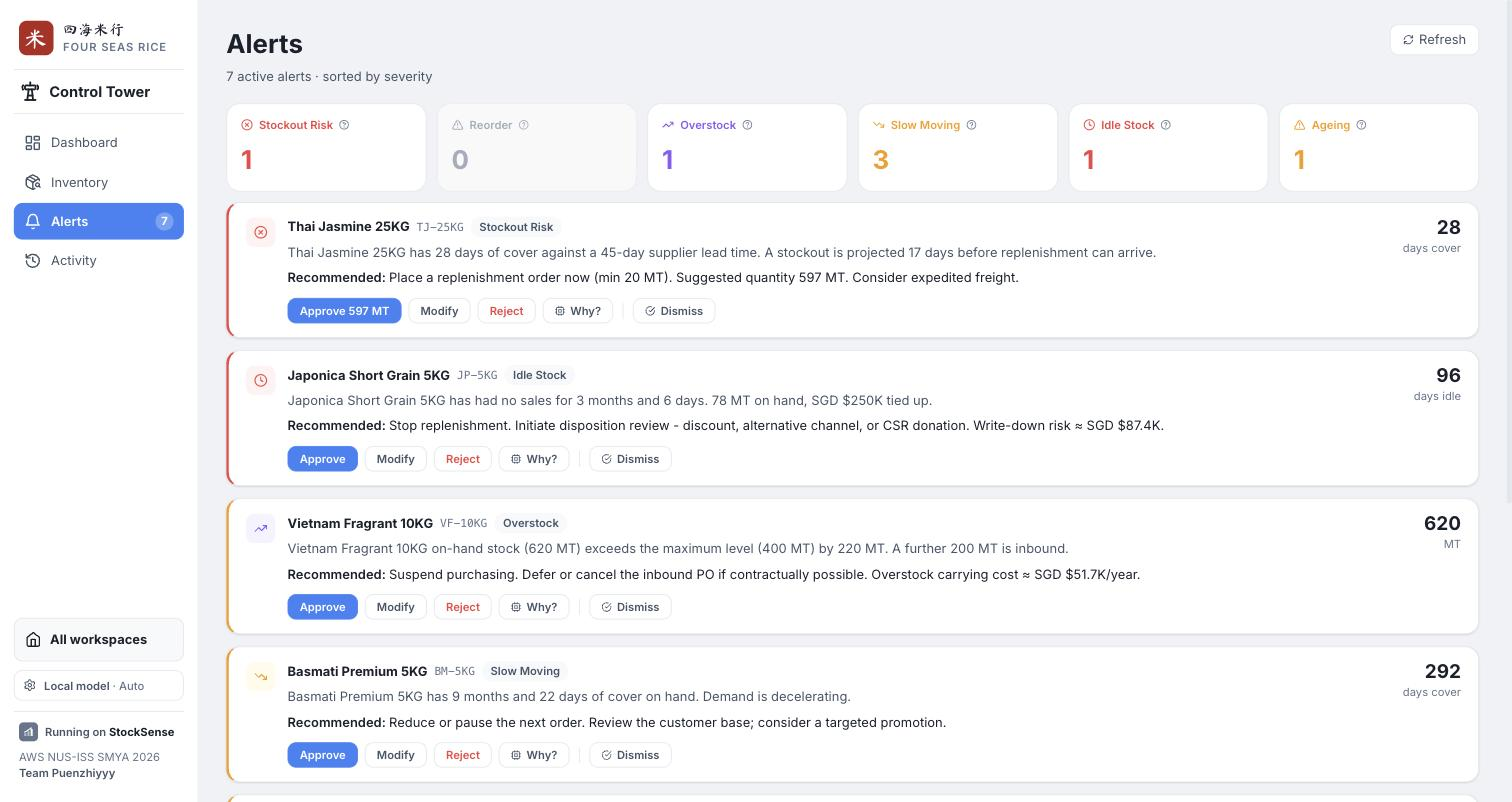
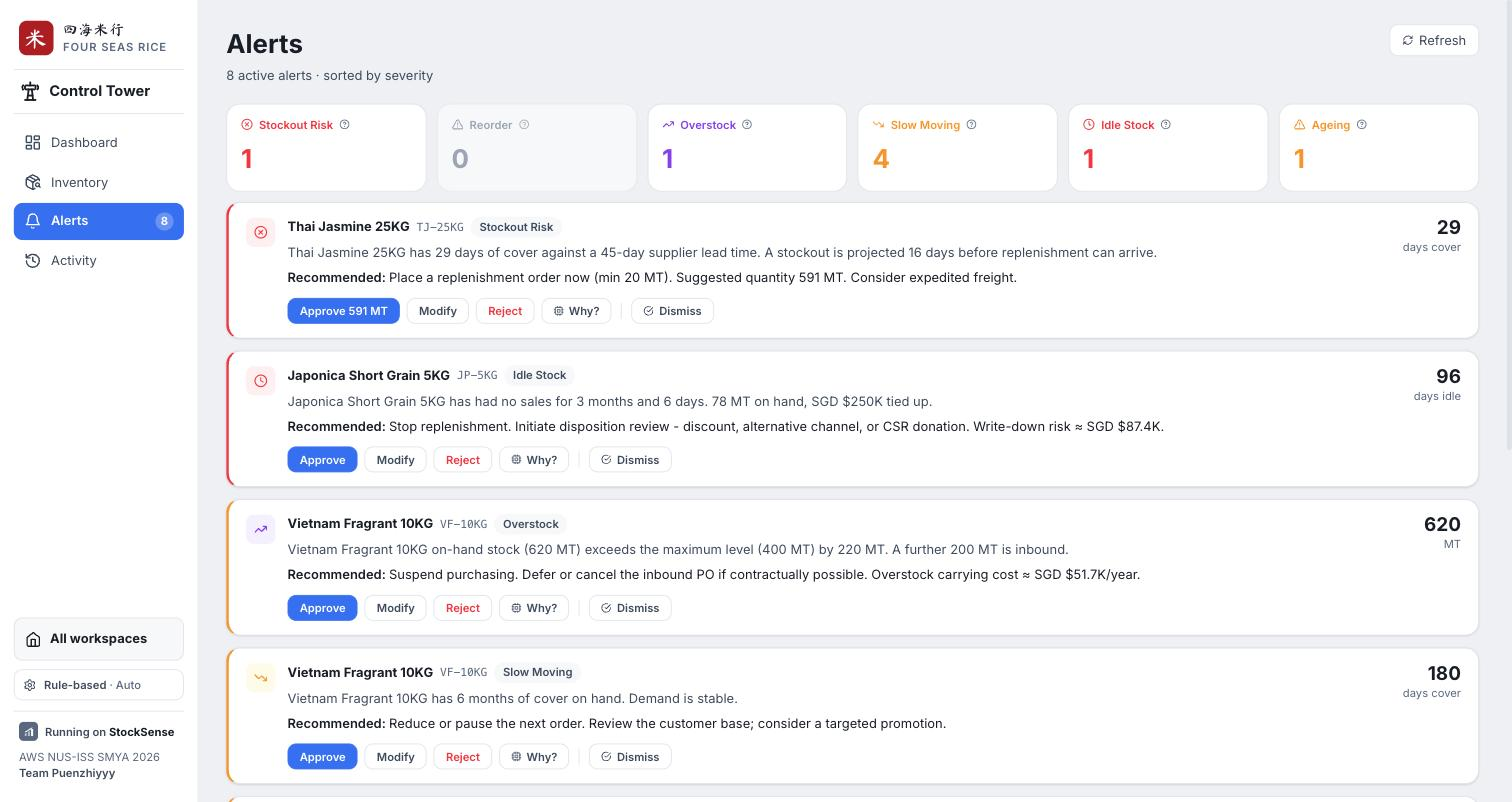
Use the 30 day average as the one demand rate across the app, per the spec
Claude-Session: https://claude.ai/code/session_01WYd7jXYikJPxYNa3bCCbaZ

diff --git a/frontend/src/mock/analytics.js b/frontend/src/mock/analytics.js
@@ -71,7 +71,6 @@ export function computeSkuAnalytics(sku, { recomputeHealth = true } = {}) {
   const reserved = num(s.reserved_qty);
   const hold = num(s.quality_hold_qty);
   const avg30 = num(s.avg_daily_usage_30d);
-  const avg90 = num(s.avg_daily_usage_90d);
   const unitCost = num(s.unit_cost_sgd);
   const unitPrice = s.unit_price_sgd == null ? Math.round(unitCost * 1.2) : num(s.unit_price_sgd);
   const marginPerMt = unitPrice - unitCost;
@@ -82,21 +81,22 @@ export function computeSkuAnalytics(sku, { recomputeHealth = true } = {}) {
   const months_of_cover = days_of_cover != null ? +(days_of_cover / 30).toFixed(1) : null;
 
   // ── Velocity / financials ─────────────────────────────────────────────────
-  const blended_daily_usage = +(0.5 * avg30 + 0.5 * avg90).toFixed(2);
+  // One demand rate everywhere, the 30 day moving average, as the backend engines
+  // use (design.md, "Formula decisions", 15 Sep 2026).
   const expected_incoming_qty = num(s.expected_incoming_qty);
   const inventory_position = +(available_qty + expected_incoming_qty).toFixed(2); // glossary #18 (simplified - see design.md)
   const gross_margin_pct = unitPrice > 0 ? +((marginPerMt / unitPrice) * 100).toFixed(1) : 0;
-  const annual_cogs = Math.round(blended_daily_usage * 365 * unitCost);
-  const annual_gross_margin = Math.round(blended_daily_usage * 365 * marginPerMt);
+  const annual_cogs = Math.round(avg30 * 365 * unitCost);
+  const annual_gross_margin = Math.round(avg30 * 365 * marginPerMt);
   const inventory_value = Math.round(onHand * unitCost);
 
   // ── Statistical safety stock + reorder point ──────────────────────────────
   const safety_stock_days = Math.round(
     zScore(num(s.target_service_level, 0.95)) * num(s.demand_cv, 0.3) * Math.sqrt(num(s.lead_time_days, 45))
   );
-  const safety_stock_mt = Math.round(safety_stock_days * blended_daily_usage);
-  const reorder_point_suggested = Math.round(num(s.lead_time_days, 45) * blended_daily_usage + safety_stock_mt);
-  const target_days_of_cover = blended_daily_usage > 0 ? Math.round(num(s.target_stock) / blended_daily_usage) : null;
+  const safety_stock_mt = Math.round(safety_stock_days * avg30);
+  const reorder_point_suggested = Math.round(num(s.lead_time_days, 45) * avg30 + safety_stock_mt);
+  const target_days_of_cover = avg30 > 0 ? Math.round(num(s.target_stock) / avg30) : null;
   const suggested_order_qty = Math.max(0, +(num(s.target_stock) - inventory_position).toFixed(1)); // glossary #30, simplified
 
   // ── Coverage band ────────────────────────────────────────────────────────
@@ -122,7 +122,7 @@ export function computeSkuAnalytics(sku, { recomputeHealth = true } = {}) {
 
   const gapDays = days_of_cover != null ? Math.max(0, num(s.lead_time_days, 45) - days_of_cover) : 0;
   const stockout_gap_days = covered_by_po ? 0 : gapDays;
-  const lost_units_risk = +(stockout_gap_days * blended_daily_usage).toFixed(1);
+  const lost_units_risk = +(stockout_gap_days * avg30).toFixed(1);
   const lost_margin_risk = Math.round(lost_units_risk * marginPerMt);
   const lost_sales_value_risk = Math.round(lost_units_risk * unitPrice);
 
@@ -134,7 +134,6 @@ export function computeSkuAnalytics(sku, { recomputeHealth = true } = {}) {
     available_qty,
     days_of_cover,
     months_of_cover,
-    blended_daily_usage,
     expected_incoming_qty,
     inventory_position,
     gross_margin_pct,

diff --git a/backend/scripts/check-formulas.js b/backend/scripts/check-formulas.js
@@ -114,11 +114,10 @@ function specProjection(s, r, day) {
   const landed = r.openPos
     .filter((p) => p.eta && Math.round((new Date(p.eta).getTime() - now) / DAY_MS) <= day && Math.round((new Date(p.eta).getTime() - now) / DAY_MS) >= 0)
     .reduce((a, p) => a + p.ordered_qty, 0);
-  return avail - s.blended_daily_usage * day + landed;
+  return avail - specAvg30(r) * day + landed;
 }
 check("suggested_order_qty", "Reorder Point / Projected Inventory", "max(0, target_stock - projected_available(lead_time_days))", {
   tol: 0.5,
-  undocumented: ["blended_daily_usage (the projection's demand rate)"],
   perSku: (s, r) => [Math.max(0, s.target_stock - specProjection(s, r, Math.round(s.lead_time_days))), s.suggested_order_qty],
 });
 
@@ -137,7 +136,7 @@ function specMovement(s, r) {
 }
 check("movement_class", "Movement Classification", "Idle: no sales in 90d; Slow: cover > 120d; Fast: >= p75 of avg_daily_30d", {
   compare: same,
-  undocumented: ["days_of_cover (engine, pending the cover decision)"],
+  undocumented: ["days_of_cover (engine; checked on its own above)"],
   perSku: (s, r) => [specMovement(s, r), s.movement_class],
 });
 
@@ -157,21 +156,21 @@ check("health_status", "Health Status", "RED / ORANGE / YELLOW / GREEN rules, fi
 });
 
 // ABC Value Classification.
-const acv = skus.map((s) => ({ id: s.sku_id, v: s.blended_daily_usage * 365 * s.unit_cost_sgd })).sort((a, b) => b.v - a.v);
+const acv = skus.map((s) => ({ id: s.sku_id, v: specAvg30(raw[s.sku_id]) * 365 * s.unit_cost_sgd })).sort((a, b) => b.v - a.v);
 const acvTotal = acv.reduce((a, x) => a + x.v, 0) || 1;
 const specAbc = {};
 { let cum = 0; for (const x of acv) { cum += x.v; const pct = cum / acvTotal; specAbc[x.id] = pct <= 0.8 ? "A" : pct <= 0.95 ? "B" : "C"; } }
-check("abc_class", "ABC Value Classification", "cumulative share of blended_daily_usage * 365 * unit_cost_sgd: A <= 80%, B <= 95%", {
+check("abc_class", "ABC Value Classification", "cumulative share of avg_daily_30d * 365 * unit_cost_sgd: A <= 80%, B <= 95%", {
   compare: same,
   perSku: (s) => [specAbc[s.sku_id], s.abc_class],
 });
 
 // Compliance Position (portfolio).
-check("compliance_position", "Compliance Position", "SUM(on_hand_qty) - 2 * SUM(blended_daily_usage) * 30", {
+check("compliance_position", "Compliance Position", "SUM(on_hand_qty) - 2 * SUM(avg_daily_30d) * 30", {
   tol: 1,
   portfolio: () => {
     const eligible = skus.reduce((a, s) => a + raw[s.sku_id].pos.on_hand_qty, 0);
-    const required = 2 * skus.reduce((a, s) => a + s.blended_daily_usage, 0) * 30;
+    const required = 2 * skus.reduce((a, s) => a + specAvg30(raw[s.sku_id]), 0) * 30;
     return [eligible - required, stats.compliancePosition];
   },
 });

diff --git a/backend/src/engines/velocity.js b/backend/src/engines/velocity.js
@@ -1,7 +1,10 @@
 // ─────────────────────────────────────────────────────────────────────────────
 // VELOCITY ENGINE
-// Rolling sales consumption over 30 / 60 / 90 / 180-day windows, a blended
-// daily rate, the demand coefficient of variation (for XYZ), and a trend flag.
+// Rolling sales consumption over 30 / 60 / 90 / 180-day windows, the daily
+// demand rate, the demand coefficient of variation (for XYZ), and a trend flag.
+// The ONE demand rate used across the app is avg_daily_usage_30d, the 30 day
+// moving average (design.md, "Formula decisions", 15 Sep 2026). It replaced a
+// 50/50 blend of the 30 and 90 day averages that was never justified.
 // Only status = 'fulfilled' rows count as consumption; 'lost' rows are demand
 // that was not met and feed the fill-rate calc in financials.js.
 // ─────────────────────────────────────────────────────────────────────────────
@@ -47,9 +50,6 @@ function computeVelocity(db, skuId, asOf = Date.now()) {
   const avg_daily_60d = round(sales_60d / 60);
   const avg_daily_90d = round(sales_90d / 90);
 
-  // Blended rate: 50/50 of the 30d and 90d rates smooths a noisy 30d window.
-  const blended_daily = round(0.5 * avg_daily_30d + 0.5 * avg_daily_90d);
-
   // Demand CV from weekly buckets over the last 12 weeks.
   const weekly = bucketWeekly(fulfilled, now, 12);
   const demand_cv = coefficientOfVariation(weekly);
@@ -71,7 +71,6 @@ function computeVelocity(db, skuId, asOf = Date.now()) {
     avg_daily_usage_30d: avg_daily_30d,
     avg_daily_usage_60d: avg_daily_60d,
     avg_daily_usage_90d: avg_daily_90d,
-    blended_daily_usage: blended_daily,
     demand_cv: round(demand_cv),
     velocity_trend,
     last_sale_date: lastSale,

diff --git a/backend/src/engines/index.js b/backend/src/engines/index.js
@@ -45,17 +45,18 @@ function buildAnalytics(db, asOf = Date.now()) {
 
     const demandCv = v.demand_cv > 0 ? v.demand_cv : m.demand_cv;
     const ss = computeSafetyStock({
-      avgDailyDemand: v.blended_daily_usage,
+      avgDailyDemand: v.avg_daily_usage_30d,
       demandCv,
       leadTimeDays: m.lead_time_days,
       leadTimeStdDays: m.lead_time_std_days,
       serviceLevel: m.target_service_level,
     });
 
-    const blended = v.blended_daily_usage;
-    const days_of_cover = blended > 0 ? Math.round(p.available_qty / blended) : null;
+    // The one demand rate: the 30 day moving average (velocity.js).
+    const dailyRate = v.avg_daily_usage_30d;
+    const days_of_cover = dailyRate > 0 ? Math.round(p.available_qty / dailyRate) : null;
     const months_of_cover = days_of_cover != null ? round1(days_of_cover / 30) : null;
-    const target_days_of_cover = blended > 0 ? Math.round(m.target_stock / blended) : null;
+    const target_days_of_cover = dailyRate > 0 ? Math.round(m.target_stock / dailyRate) : null;
 
     const covered_by_po =
       p.expected_incoming_qty > 0 &&
@@ -69,7 +70,7 @@ function buildAnalytics(db, asOf = Date.now()) {
     // using the real projection curve (TASK-07) run out to the lead time.
     const projectionAtReceipt = projectInventory({
       availableQty: p.available_qty,
-      dailyDemand: blended,
+      dailyDemand: dailyRate,
       openPos: p.open_pos,
       days: Math.max(0, Math.round(m.lead_time_days)),
       asOf: now,
@@ -97,7 +98,7 @@ function buildAnalytics(db, asOf = Date.now()) {
       days_since_last_sale_text: humanDuration(v.days_since_last_sale),
       inventory_age_text: humanDuration(p.inventory_age_days),
       ageing_status: ageingStatus(p.inventory_age_days, m.max_holding_days),
-      annual_cogs: Math.round(blended * 365 * m.unit_cost_sgd),
+      annual_cogs: Math.round(dailyRate * 365 * m.unit_cost_sgd),
     };
   });
 

diff --git a/backend/src/engines/financials.js b/backend/src/engines/financials.js
@@ -11,11 +11,11 @@
  */
 function skuFinancials(s) {
   const marginPerMt = s.unit_price_sgd - s.unit_cost_sgd;
-  const blended = s.blended_daily_usage || 0;
+  const dailyRate = s.avg_daily_usage_30d || 0;
 
   const inventory_value = round(s.on_hand_qty * s.unit_cost_sgd);
-  const annual_cogs = round(blended * 365 * s.unit_cost_sgd);
-  const annual_gross_margin = round(blended * 365 * marginPerMt);
+  const annual_cogs = round(dailyRate * 365 * s.unit_cost_sgd);
+  const annual_gross_margin = round(dailyRate * 365 * marginPerMt);
   const gross_margin_pct = s.unit_price_sgd > 0 ? round((marginPerMt / s.unit_price_sgd) * 100) : 0;
 
   // Overstock (above max) — value plus the annual cost of holding it
@@ -33,7 +33,7 @@ function skuFinancials(s) {
     s.days_of_cover != null && !s.covered_by_po
       ? Math.max(0, s.lead_time_days - s.days_of_cover)
       : 0;
-  const lost_units_risk = round(gapDays * blended);
+  const lost_units_risk = round(gapDays * dailyRate);
   const lost_margin_risk = round(lost_units_risk * marginPerMt);
   const lost_sales_value_risk = round(lost_units_risk * s.unit_price_sgd);
 
@@ -101,7 +101,7 @@ function portfolioStats(skus, demand) {
   // stockpile scheme is company-wide, not per-SKU. Uses demand as an honest stand-in for real
   // import-receipt history, which this project doesn't have.
   const complianceEligibleQty = round(sum(active, "on_hand_qty"));
-  const complianceRequiredQty = round(2 * sum(active, "blended_daily_usage") * 30);
+  const complianceRequiredQty = round(2 * sum(active, "avg_daily_usage_30d") * 30);
   const compliancePosition = round(complianceEligibleQty - complianceRequiredQty);
 
   // Value-weighted coverage band

diff --git a/frontend/src/lib/explain.js b/frontend/src/lib/explain.js
@@ -69,7 +69,7 @@ function stockoutRisk(s) {
     {
       heading: H.seen,
       body: para(
-        `${mt(s.available_qty)} is available and ${s.blended_daily_usage} MT sells each day.`,
+        `${mt(s.available_qty)} is available and ${s.avg_daily_usage_30d} MT sells each day.`,
         s.days_of_cover != null ? `That lasts ${days(s.days_of_cover)}.` : `Nothing is selling right now, so there is no "days left" figure.`
       ),
     },
@@ -125,7 +125,7 @@ function reorder(s) {
     },
     {
       heading: H.next,
-      body: para(`Stock keeps falling by ${s.blended_daily_usage} MT a day. Once it cannot last the ${dayAdj(s.lead_time_days)} wait, this becomes a stockout alert, and only paying for faster shipping helps.`),
+      body: para(`Stock keeps falling by ${s.avg_daily_usage_30d} MT a day. Once it cannot last the ${dayAdj(s.lead_time_days)} wait, this becomes a stockout alert, and only paying for faster shipping helps.`),
     },
     {
       heading: H.act,
@@ -214,7 +214,7 @@ function slowMoving(s) {
     },
     {
       heading: H.how,
-      body: para(`That is ${mt(s.available_qty)} of stock divided by the ${s.blended_daily_usage} MT that sells each day.`),
+      body: para(`That is ${mt(s.available_qty)} of stock divided by the ${s.avg_daily_usage_30d} MT that sells each day.`),
     },
     {
       heading: H.next,

diff --git a/backend/src/engines/projection.js b/backend/src/engines/projection.js
@@ -1,6 +1,6 @@
 // ─────────────────────────────────────────────────────────────────────────────
 // PROJECTED INVENTORY ENGINE (TASK-07, spec Step 12 / glossary #29)
-//   Projected available(day) = Available today - (blended daily usage x day)
+//   Projected available(day) = Available today - (30 day average daily usage x day)
 //                               + Σ open-PO qty landing on or before that day
 // Flat-rate demand (no seasonality) — matches every other engine's demand
 // model in this MVP. No confirmed-order netting (see design.md's documented
@@ -17,7 +17,7 @@ const round = (n) => Math.round(n * 100) / 100;
 /**
  * @param {object} p
  * @param {number} p.availableQty   current available stock (MT)
- * @param {number} p.dailyDemand    blended daily usage (MT/day), flat-rate
+ * @param {number} p.dailyDemand    30 day average daily usage (MT/day), flat-rate
  * @param {Array<{ordered_qty:number, eta:string}>} p.openPos  open purchase orders
  * @param {number} [p.safetyStockMt]     for first_safety_breach_date
  * @param {number} [p.reorderPoint]      for recovery_date

diff --git a/backend/src/llm/explain.js b/backend/src/llm/explain.js
@@ -124,7 +124,7 @@ function buildFacts(sku, alert) {
   add("On hand stock", sku.on_hand_qty, " MT");
   add("Reserved for confirmed orders", sku.reserved_qty, " MT");
   add("Already on order and inbound", sku.expected_incoming_qty, " MT");
-  add("Demand rate (blended)", sku.blended_daily_usage, " MT per day");
+  add("Demand rate (30 day average)", sku.avg_daily_usage_30d, " MT per day");
   add("Days of cover remaining", sku.days_of_cover, " days");
   // Same treatment as days since last sale, for the field that fix missed. The
   // slow movers carry 200 to 300 days of cover, and models reached for "nearly
@@ -358,7 +358,7 @@ function cacheKey(sku, alert, tier = "local") {
     `in${bucket(sku.expected_incoming_qty, 10)}`,
     // Demand rate, to the nearest 1 MT per day. Together with stock this is
     // what days of cover is made of, so it does not need its own entry.
-    `dd${bucket(sku.blended_daily_usage, 1)}`,
+    `dd${bucket(sku.avg_daily_usage_30d, 1)}`,
     // Idle and ageing alerts lead on these two, and neither is derived from
     // stock, so they are genuinely independent.
     `ls${bucket(sku.days_since_last_sale, 5)}`,

diff --git a/backend/src/llm/slots.js b/backend/src/llm/slots.js
@@ -159,7 +159,7 @@ function buildSlots(sku, alert) {
 
     reserved_stock:     { value: sku.reserved_qty > 0 ? mt(sku.reserved_qty) : null, describes: "stock already promised to confirmed orders" },
     inbound_stock:      { value: sku.expected_incoming_qty > 0 ? mt(sku.expected_incoming_qty) : null, describes: "stock already ordered and on its way" },
-    demand_rate:        { value: sku.blended_daily_usage > 0 ? `${sku.blended_daily_usage} MT per day` : null, describes: "how fast this sells" },
+    demand_rate:        { value: sku.avg_daily_usage_30d > 0 ? `${sku.avg_daily_usage_30d} MT per day` : null, describes: "how fast this sells" },
     days_of_cover:      { value: sku.days_of_cover_text, describes: "how long current stock will last at that demand rate" },
     lead_time:          { value: days(sku.lead_time_days), describes: "how long the supplier takes to deliver a new order" },
     safety_stock:       { value: sku.safety_stock_days > 0 ? days(sku.safety_stock_days) : null, describes: "the buffer held on top of lead time demand" },

diff --git a/frontend/src/mock/statsData.js b/frontend/src/mock/statsData.js
@@ -70,7 +70,7 @@ const avgDaysOfCover = Math.round(
 // The real rice-stockpile scheme is company-wide, not per-SKU. Uses demand as an
 // honest stand-in for real import-receipt history, which this project doesn't have.
 const complianceEligibleQty = Math.round(activeSkus.reduce((sum, s) => sum + s.on_hand_qty, 0));
-const complianceRequiredQty = Math.round(2 * activeSkus.reduce((sum, s) => sum + s.blended_daily_usage, 0) * 30);
+const complianceRequiredQty = Math.round(2 * activeSkus.reduce((sum, s) => sum + s.avg_daily_usage_30d, 0) * 30);
 const compliancePosition = complianceEligibleQty - complianceRequiredQty;
 
 // ── Data Status (REQ-17, glossary #39) - informational as-of timestamp only; no

diff --git a/frontend/src/pages/Inventory.jsx b/frontend/src/pages/Inventory.jsx
@@ -586,7 +586,7 @@ function FormSection({ title, children }) {
 
 // ── Projected inventory curve (TASK-07) ─────────────────────────────────────
 // Real 90-day projection from the backend (backend/src/engines/projection.js) -
-// available stock depleting at the blended daily rate, stepped up by open POs
+// available stock depleting at the 30 day average daily rate, stepped up by open POs
 // on their ETA day. Fetched fresh per SKU; not blocking the rest of the modal.
 function ProjectionChart({ skuId }) {
   const [projection, setProjection] = useState(null);

diff --git a/backend/src/engines/segmentation.js b/backend/src/engines/segmentation.js
@@ -1,6 +1,6 @@
 // ─────────────────────────────────────────────────────────────────────────────
 // ABC × XYZ SEGMENTATION ENGINE
-//   ABC — Pareto on annual consumption value (blended daily × 365 × unit cost)
+//   ABC — Pareto on annual consumption value (30 day average daily usage × 365 × unit cost)
 //         A: cumulative ≤ 80%   B: ≤ 95%   C: remainder
 //   XYZ — demand predictability by coefficient of variation
 //         X: cv < 0.25   Y: 0.25–0.5   Z: > 0.5
